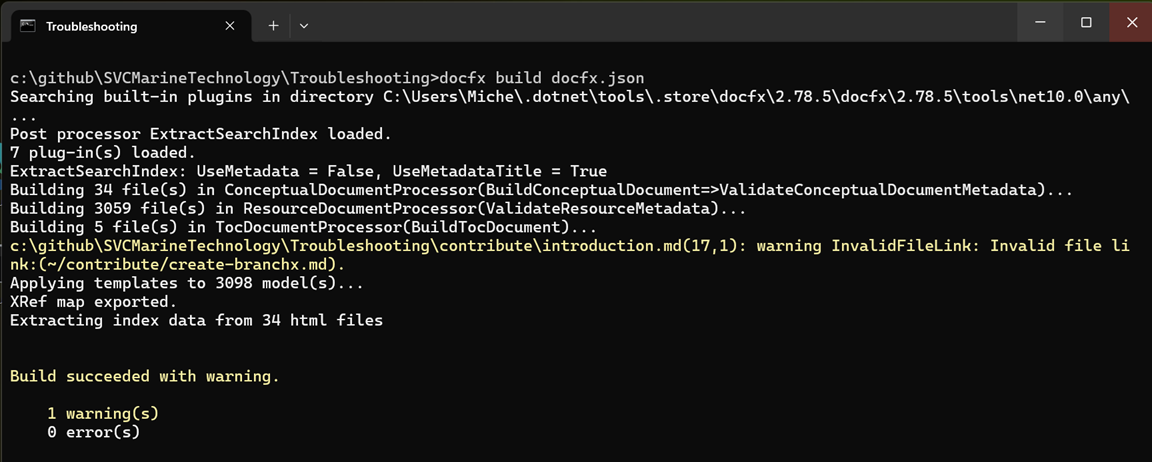
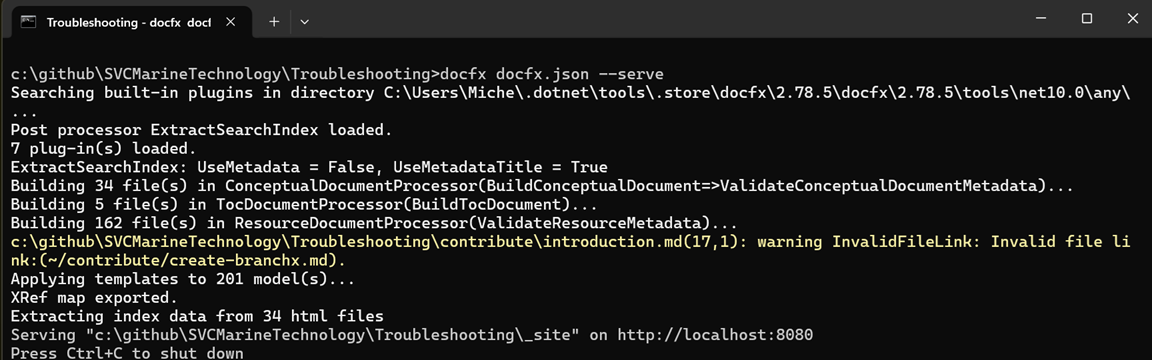
eliminated pdf generation (#13)

Changed region(s): [[0.0, 0.1528, 1.0, 1.0], [0.2188, 0.0, 1.0, 0.1222], [0.0, 0.0, 0.2188, 0.1222]]

diff --git a/contribute/run-docfx.md b/contribute/run-docfx.md
@@ -18,8 +18,8 @@ We're going to start by using DocFX to build our Markdown files into the HTML th
 
 2. Execute
 
-   ```
-   docfx build docfx.json
+   ```powershell
+   docfx docfx.json --serve
    ```
 
    you should see something like this:
@@ -46,21 +46,7 @@ This is just one example, but it's pretty typical of the warnings that might be 
 
 Even if there are no DocFX warnings, it's possible that the generated HTML doesn't render properly.  Something as simple as a space in the wrong place can cause formatting issues.  Before you consider your content done, open the troubleshooting guide and visually check the pages you modified to ensure they look as expected.  You can do that by completing these steps:
 
-1. In the same command prompt execute:
-
-   ```powershell
-   docfx serve _site
-   ```
-
-   you should see something like this:
-
-   ![](images/run-docfx-docfx-serve.png)
-
-   > [!NOTE]
-   >
-   > The `.\_site` folder is what gets created by `docfx build`.  These are the static HTML pages that DocFX generates from our Markdown files. `docfx serve` just hosts the HTML files in a local web server so you can view them on your machine.
-
-1. Open a browser to the URL that `docfx serve` writes to the console: http://localhost:8080
+1. Open a browser to the URL that `docfx docfx.json --serve` writes to the console: http://localhost:8080
 
    You can find this URL in the output of the DocFX command we just ran:
 
